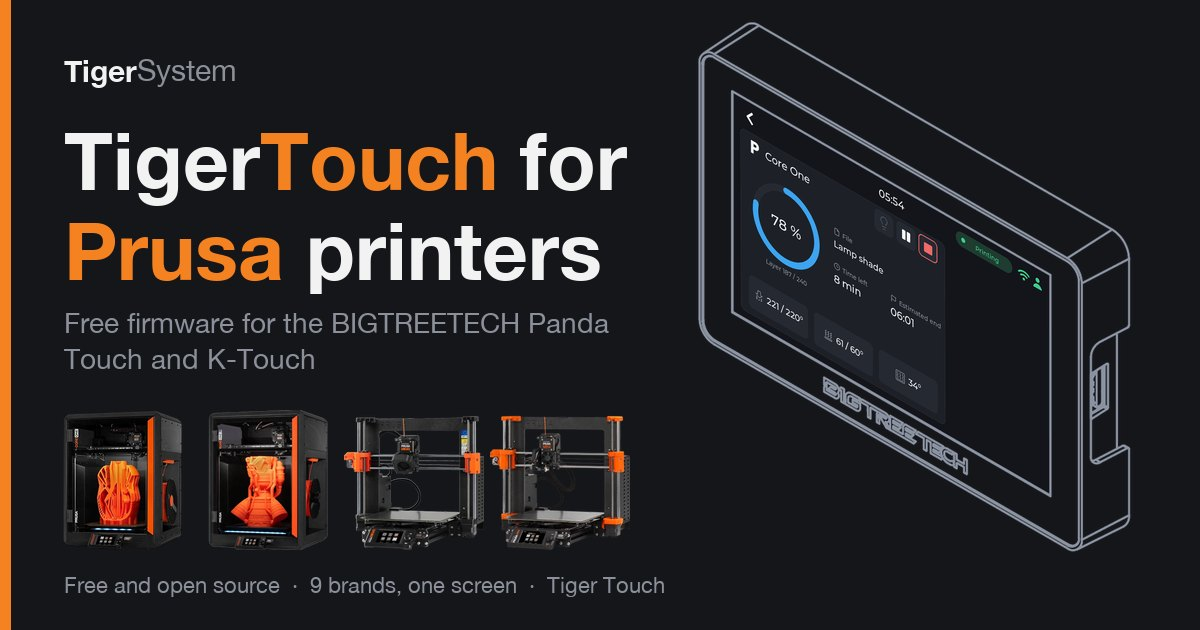
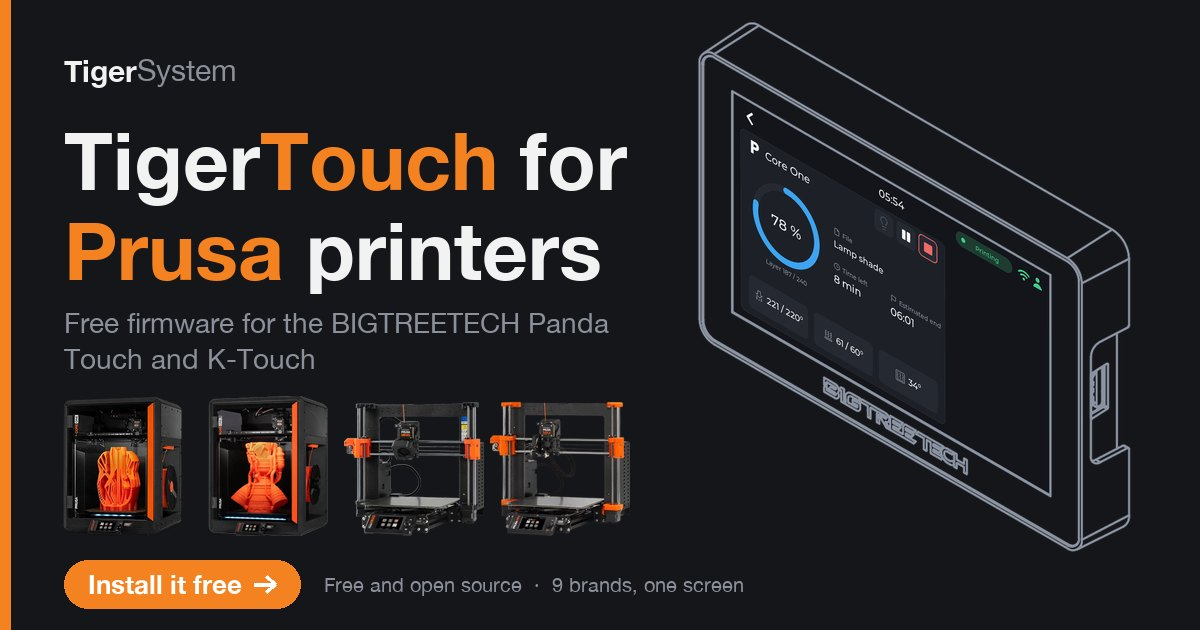
Share previews: short social descriptions, a call to action in each picture, fingerprinted picture addresses

Changed region(s): [[0.0308, 0.6333, 0.6167, 0.9952]]

diff --git a/installer/index.html b/installer/index.html
@@ -11,14 +11,14 @@
 <meta property="og:locale" content="en_US">
 <meta property="og:url" content="https://tigertag-project.github.io/Tiger-Touch/">
 <meta property="og:title" content="Tiger Touch - every 3D printer on your Panda Touch">
-<meta property="og:description" content="Free firmware for the BIGTREETECH Panda Touch and K-Touch: Bambu Lab, Creality, Elegoo, Anycubic, Snapmaker, FlashForge, Prusa, Klipper and OctoPrint on one screen. Install it from your browser.">
+<meta property="og:description" content="Free firmware that turns a Panda Touch or K-Touch into one live screen for every 3D printer you own, whatever the brand.">
 <meta property="og:image" content="https://tigertag-project.github.io/Tiger-Touch/og/home.jpg">
 <meta property="og:image:width" content="1200">
 <meta property="og:image:height" content="630">
 <meta property="og:image:alt" content="TigerTouch: every 3D printer on one screen, on a BIGTREETECH Panda Touch">
 <meta name="twitter:card" content="summary_large_image">
 <meta name="twitter:title" content="Tiger Touch - every 3D printer on your Panda Touch">
-<meta name="twitter:description" content="Free, open-source firmware that turns a BIGTREETECH Panda Touch or K-Touch into one live screen for Bambu Lab, Creality, Elegoo, Anycubic, Prusa and Klipper.">
+<meta name="twitter:description" content="Free firmware that turns a Panda Touch or K-Touch into one live screen for every 3D printer you own, whatever the brand.">
 <meta name="twitter:image" content="https://tigertag-project.github.io/Tiger-Touch/og/home.jpg">
 <meta name="twitter:image:alt" content="TigerTouch: every 3D printer on one screen, on a BIGTREETECH Panda Touch">
 <!-- ESP Web Tools writes the firmware over WebSerial. It is loaded from a CDN, as

diff --git a/scripts/make-brand-pages.py b/scripts/make-brand-pages.py
@@ -140,7 +140,8 @@ def page(b, brands, pieces, svg):
     title = "%s printers on a Panda Touch or K-Touch - Tiger Touch" % name
     desc = b["meta"]  # written for search results: 150-160 characters, a whole sentence
     img = BASE + "img/%s.png" % slug
-    og = BASE + "og/%s.jpg" % slug
+    # With its fingerprint: a network that cached an older picture fetches the new one.
+    og = BASE + "og/%s.jpg?v=%s" % (slug, hashlib.sha256((ROOT / "assets" / "og" / (slug + ".jpg")).read_bytes()).hexdigest()[:10])
     slugs = {x["logo"]: x["slug"] for x in brands}
     others = [x for x in brands if x["slug"] != slug]
     logo = next(p for p in pieces if p[0] == b["logo"])
@@ -180,7 +181,7 @@ def page(b, brands, pieces, svg):
 <meta property="og:type" content="website">
 <meta property="og:site_name" content="Tiger Touch">
 <meta property="og:title" content="Tiger Touch for {name} printers">
-<meta property="og:description" content="{desc}">
+<meta property="og:description" content="{ogdesc}">
 <meta property="og:url" content="{url}">
 <meta property="og:locale" content="en_US">
 <meta property="og:image" content="{og}">
@@ -189,7 +190,7 @@ def page(b, brands, pieces, svg):
 <meta property="og:image:alt" content="TigerTouch for {name} printers: the screen showing a {name} printer, and its lineup">
 <meta name="twitter:card" content="summary_large_image">
 <meta name="twitter:title" content="Tiger Touch for {name} printers">
-<meta name="twitter:description" content="{desc}">
+<meta name="twitter:description" content="{ogdesc}">
 <meta name="twitter:image" content="{og}">
 <meta name="twitter:image:alt" content="TigerTouch for {name} printers: the screen showing a {name} printer, and its lineup">
 <link rel="icon" href="favicon.svg" type="image/svg+xml">
@@ -308,7 +309,7 @@ def page(b, brands, pieces, svg):
 </main>
 </body>
 </html>
-""".format(title=esc(title), desc=esc(desc), url=url, name=esc(name), img=img, og=og, slug=slug, repo=REPO,
+""".format(title=esc(title), desc=esc(desc), ogdesc=esc(b["og"]), url=url, name=esc(name), img=img, og=og, slug=slug, repo=REPO,
            ld=json.dumps(ld, ensure_ascii=False).replace("</", "<\\/"), logo_svg=logo_svg, lead=esc(b["lead"]),
            models=esc(b["models"]), connection=esc(b["connection"]), status=esc(b["status"]),
            shot_alt=esc(b["shot_alt"]), shows=li(b["shows"]), controls=esc(b["controls"]),
@@ -357,6 +358,8 @@ def main():
     slugs = {b["logo"]: b["slug"] for b in brands}
     home = replace_strip(index.read_text(), strip(svg, pieces, slugs, "", None))
     home = static_english(home, english((out / "i18n.js").read_text()))
+    stamp = hashlib.sha256((ROOT / "assets" / "og" / "home.jpg").read_bytes()).hexdigest()[:10]
+    home = re.sub(r'(og/home\.jpg)(\?v=\w+)?"', r'\1?v=%s"' % stamp, home)
     home = re.sub(r'href="site\.css(\?v=\w+)?"', 'href="site.css?v=%s"' % STAMPS["v_css"], home)
     home = re.sub(r'src="theme\.js(\?v=\w+)?"', 'src="theme.js?v=%s"' % STAMPS["v_theme"], home)
     index.write_text(home)

diff --git a/scripts/make-og-images.py b/scripts/make-og-images.py
@@ -86,9 +86,18 @@ def card(title2, sub, device, printers, footer, font):
     # A few of the brand's printers along the bottom.
     x = 52
     for p in printers[:4]:
-        paste_fit(im, p, (x, 410, 140, 140))
+        paste_fit(im, p, (x, 396, 140, 140))
         x += 146
-    d.text((64, 572), footer, font=font(22, False), fill=MUTED)
+    # What to do next, as the button the site uses: a click is what a share wants.
+    cta = "Install it free"
+    co = font(26)
+    tw = d.textlength(cta, font=co) + 34  # the text, then a drawn arrow (no font has one here)
+    d.rounded_rectangle((64, 560, 64 + tw + 48, 608), radius=24, fill=ACCENT)
+    d.text((64 + 24, 584), cta, font=co, fill=(255, 255, 255), anchor="lm")
+    ax = 64 + 24 + tw - 22
+    d.line((ax, 584, ax + 20, 584), fill=(255, 255, 255), width=4)
+    d.line((ax + 12, 576, ax + 21, 584, ax + 12, 592), fill=(255, 255, 255), width=4, joint="curve")
+    d.text((64 + tw + 72, 584), footer, font=font(20, False), fill=MUTED, anchor="lm")
     return im.convert("RGB")
 
 
@@ -101,7 +110,7 @@ def main():
     out.mkdir(parents=True, exist_ok=True)
     data = json.loads((ROOT / "installer" / "brand-pages.json").read_text())["brands"]
     models = ROOT / "assets" / "printers" / "models"
-    footer = "Free and open source  ·  9 brands, one screen  ·  Tiger Touch"
+    footer = "Free and open source  ·  9 brands, one screen"
     for b in data:
         im = card([(b["name"], ACCENT), (" printers", TEXT)],
                   "Free firmware for the BIGTREETECH Panda Touch and K-Touch",
@@ -112,7 +121,7 @@ def main():
                                  "prusa_core_one.png")]
     home = card([], "Every 3D printer on one screen: free firmware for the BIGTREETECH Panda Touch and K-Touch",
                 ROOT / "assets" / "devices" / "tiger-touch-cards.png", lead,
-                "Bambu Lab · Creality · Elegoo · Anycubic · Snapmaker · FlashForge · Prusa · Klipper · OctoPrint", font)
+                "9 brands, one screen  ·  open source", font)
     home.save(out / "home.jpg", quality=86, optimize=True, progressive=True)
     print("og images: %s" % ", ".join(sorted(p.name for p in out.glob("*.jpg"))))
 

diff --git a/CHANGELOG.md b/CHANGELOG.md
@@ -101,6 +101,10 @@ they were written.
   OctoPrint), say the screen's data is made up in Demo mode, link the way back,
   and list the same models as their lineups. `llms.txt` says what TigerSystem
   and TigerTag each are.
+- **Share previews pass opengraph.xyz's checks**: a social description of its
+  own (125 characters at most, where previews cut; the search description stays
+  150 to 160), an "Install it free" button in every share picture, and the
+  picture's address carries its fingerprint so networks drop an old copy.
 - **The README and llms.txt link every brand page**: the brands of the
   printer table and a line under it in the README, a section of its own in
   `llms.txt`, so that search engines and AI assistants find each page.
